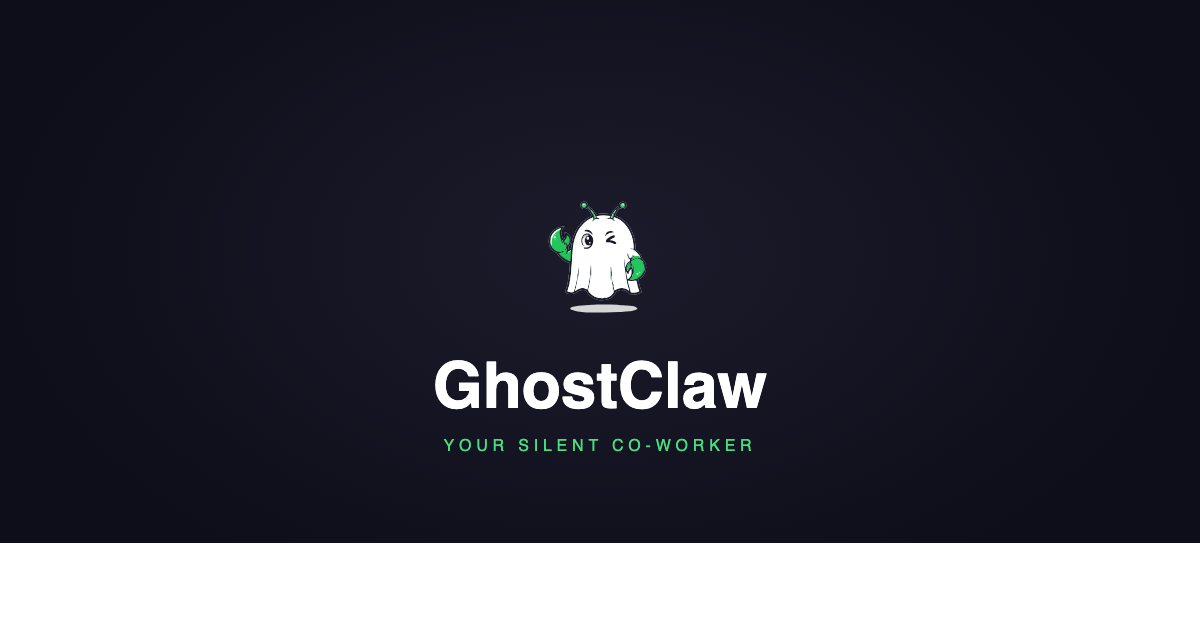
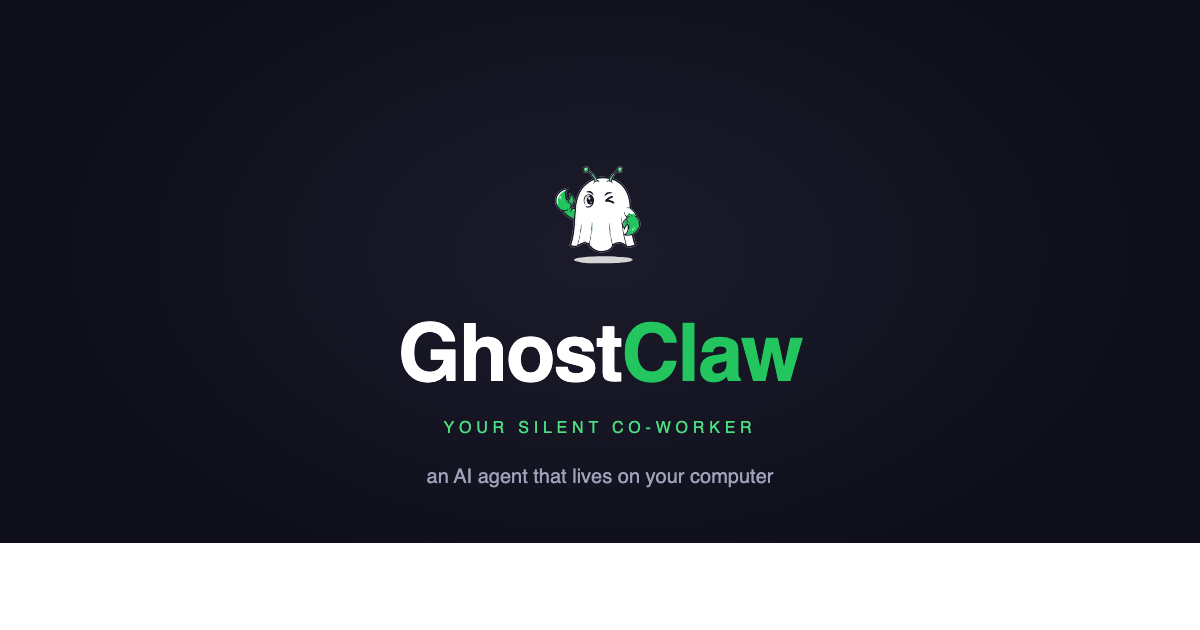
Add sharing card: split-color OG image, full meta tags
Twitter card + Open Graph with absolute ghostclaw.io URLs,
summary_large_image, updated description copy.

Changed region(s): [[0.3083, 0.2714, 0.6783, 0.7841]]

diff --git a/index.html b/index.html
@@ -4,11 +4,19 @@
 <meta charset="utf-8">
 <meta name="viewport" content="width=device-width, initial-scale=1">
 <title>GhostClaw — your silent co-worker</title>
-<meta name="description" content="A personal AI agent that lives on bare metal. Telegram, WhatsApp, email, scheduled tasks. No containers, no cold starts.">
+<meta name="description" content="An AI agent that lives on your computer and does stuff for you. Telegram, WhatsApp, email, scheduled tasks. No containers.">
 <meta name="theme-color" content="#0e0e1a">
+<meta property="og:type" content="website">
+<meta property="og:url" content="https://ghostclaw.io">
 <meta property="og:title" content="GhostClaw — your silent co-worker">
-<meta property="og:description" content="A personal AI agent that lives on bare metal. Telegram, WhatsApp, email, scheduled tasks.">
-<meta property="og:image" content="og-image.png">
+<meta property="og:description" content="An AI agent that lives on your computer and does stuff for you. Telegram, WhatsApp, email, scheduled tasks. No containers.">
+<meta property="og:image" content="https://ghostclaw.io/og-image.png">
+<meta property="og:image:width" content="1200">
+<meta property="og:image:height" content="630">
+<meta name="twitter:card" content="summary_large_image">
+<meta name="twitter:title" content="GhostClaw — your silent co-worker">
+<meta name="twitter:description" content="An AI agent that lives on your computer and does stuff for you.">
+<meta name="twitter:image" content="https://ghostclaw.io/og-image.png">
 <link rel="icon" type="image/png" sizes="32x32" href="favicon-32.png">
 <link rel="apple-touch-icon" href="apple-touch-icon.png">
 <link href="https://fonts.googleapis.com/css2?family=Fredoka:wght@400;500;600;700&display=swap" rel="stylesheet">
